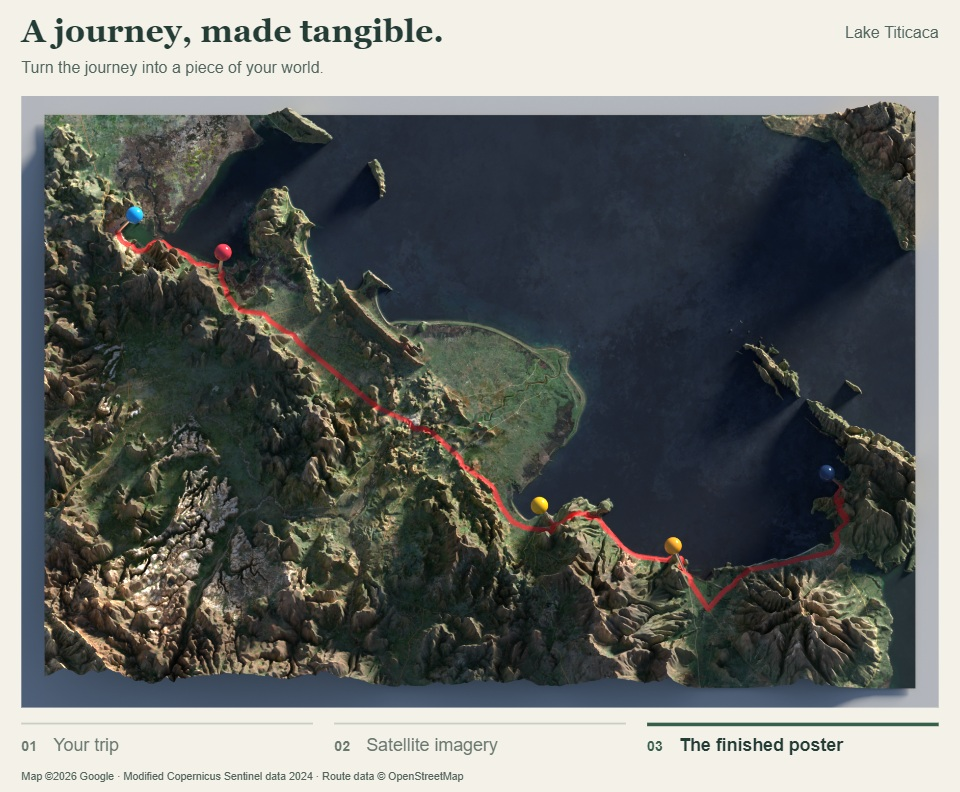
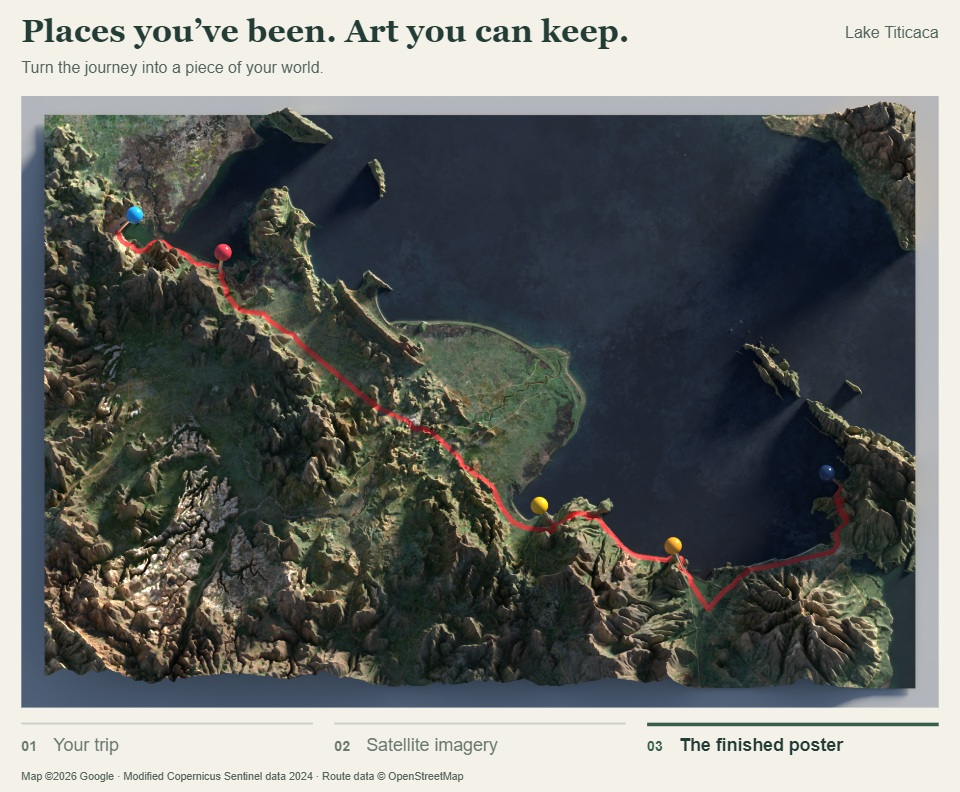
Use the selected poster headline

Changed region(s): [[0.0, 0.0, 0.6562, 0.0606]]

diff --git a/assets/README.md b/assets/README.md
@@ -4,7 +4,7 @@
 
   Credits: Google Maps ©2026 Google; contains modified Copernicus Sentinel data 2024; original road/route data © OpenStreetMap contributors, ODbL (Valhalla routing). The map screenshot retains Google's attribution. It was captured with the sidebar collapsed and presentation controls hidden, without changing map data.
 
-  Timing: 8.64 seconds, including a 3.2-second final-poster hold. Export: 960×792 pixels, shared color palette with reserved route/pin colors.
+  Headline: “Places you’ve been. Art you can keep.” Timing: 8.64 seconds, including a 3.2-second final-poster hold. Export: 960×792 pixels, shared color palette with reserved route/pin colors.
 
 - `terrain-still.jpg` and `terrain-workflow.gif`: an illustrated explanation of the Shaded Relief Maps pipeline alongside a real Alps terrain render. The animation is a diagram, not a recording of the rendering process. No trip routes or pins are included.
 - `radio.jpg`: a purple RadioV2 banner with Discover and Favourites smartphone mockups, including Android Back, Home, and Recent Apps buttons. Device frames and banner were produced with the imagegen skill from existing app screenshots and the user's visual reference; they are presentation artwork.
